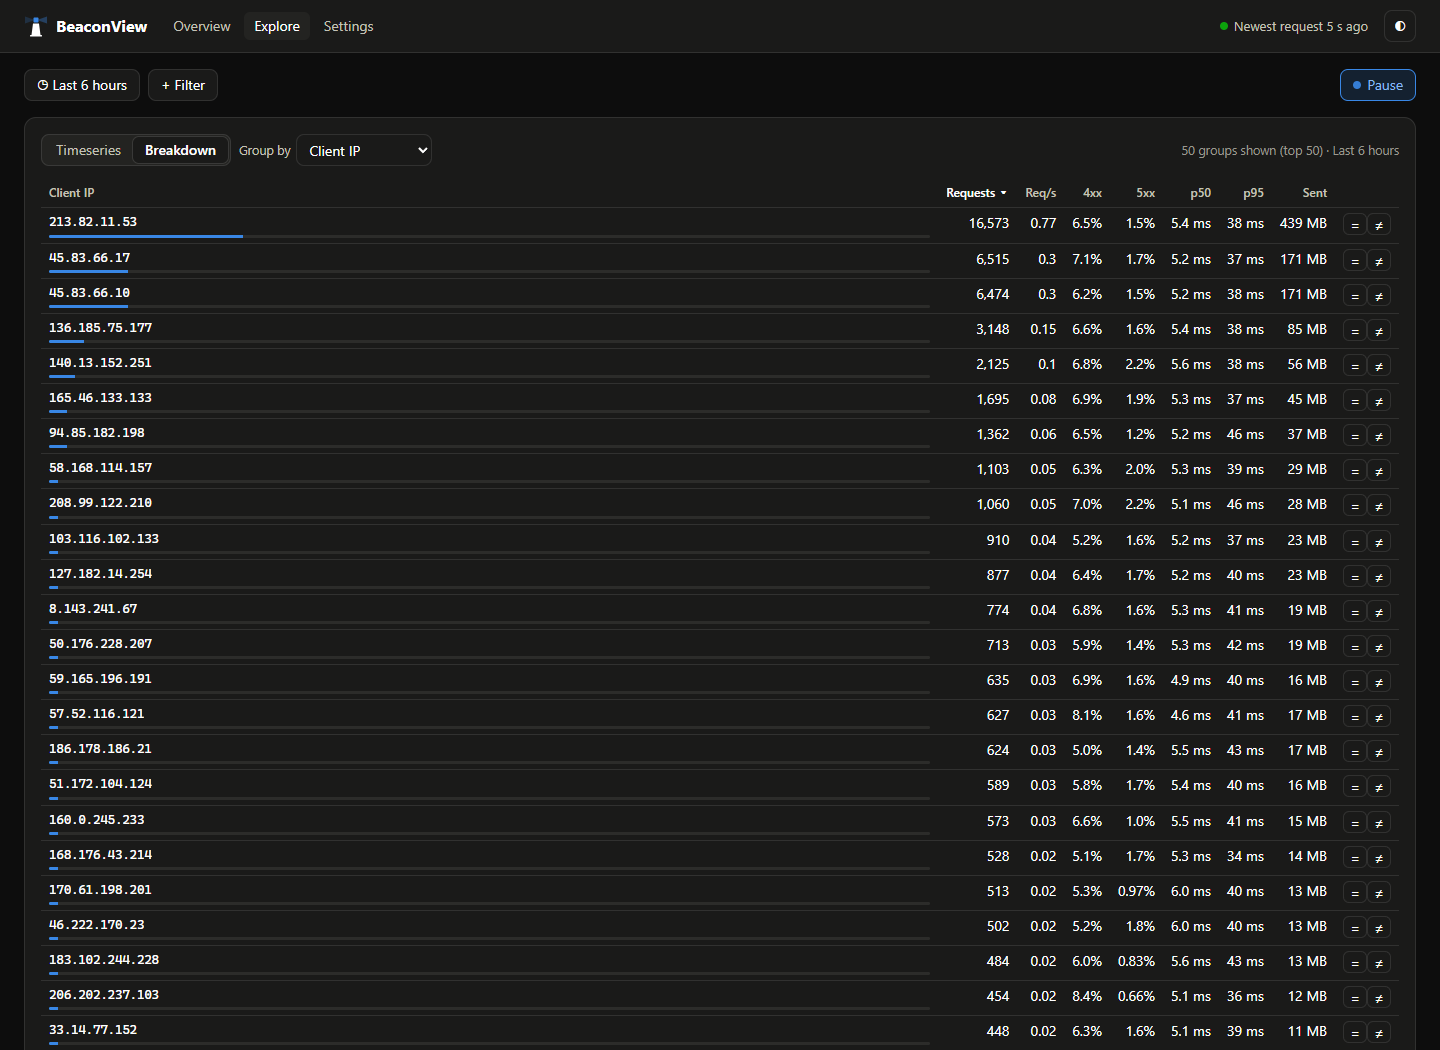
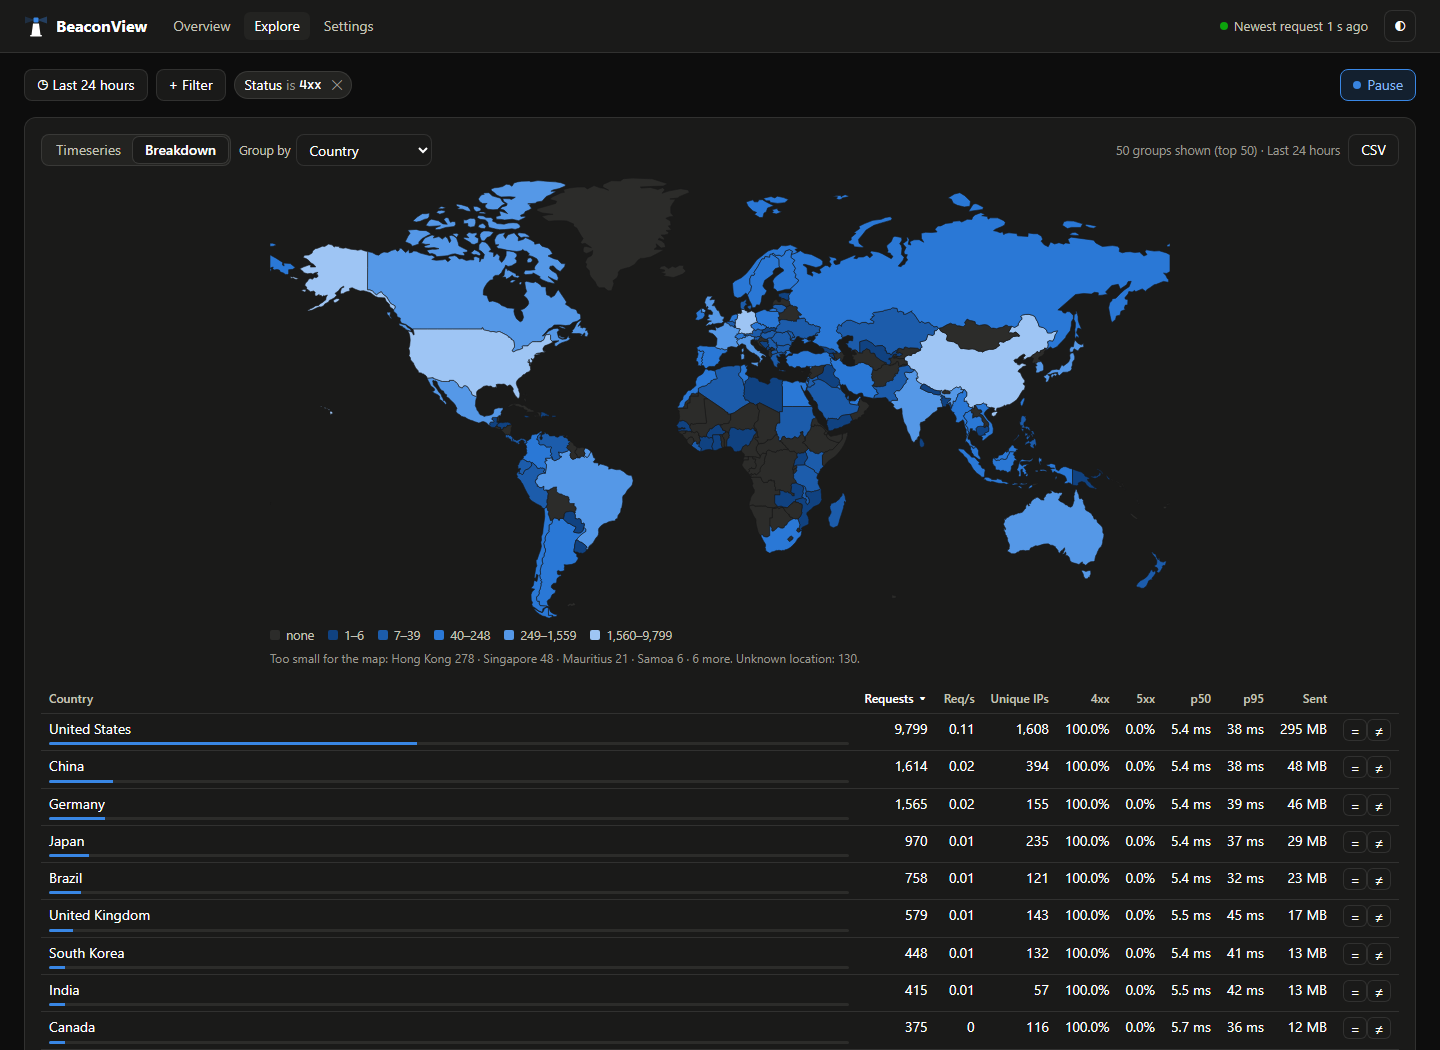
updated screenshots

diff --git a/README.md b/README.md
@@ -5,7 +5,7 @@ searchable history of every request: who is hitting what, how often, what they g
 tracking to your sites and never sits in the request path: if BeaconView is slow or stopped, your traffic is
 unaffected.
 
-![The Overview: a day of traffic by status, per router, top paths and clients](docs/screenshots/overview.png)
+![The Overview: a highlight about one client, six hours of traffic by status, per router, and a map of client countries](docs/screenshots/overview.png)
 
 > **Status: early (v0.2).** Built for one Traefik host with a handful of people looking at it. See
 > [the design notes](docs/design.md) for how it works and what is planned.
@@ -29,9 +29,9 @@ unaffected.
 - **Settings** — what is being read and how far along, database size, and retention or IP handling you can change
   while it runs.
 
-| Explore | Breakdown by client IP |
+| Explore | Breakdown by country |
 |---|---|
-| ![Explore: requests over six hours, split by status, with the matching requests below](docs/screenshots/explore.png) | ![Breakdown: one row per client IP with requests, error rates and latency](docs/screenshots/breakdown.png) |
+| ![Explore: requests over six hours, split by status, with the matching requests below](docs/screenshots/explore.png) | ![Breakdown: where 4xx responses came from, on a map and per country with error rates and latency](docs/screenshots/breakdown.png) |
 
 ## Quick start
 
